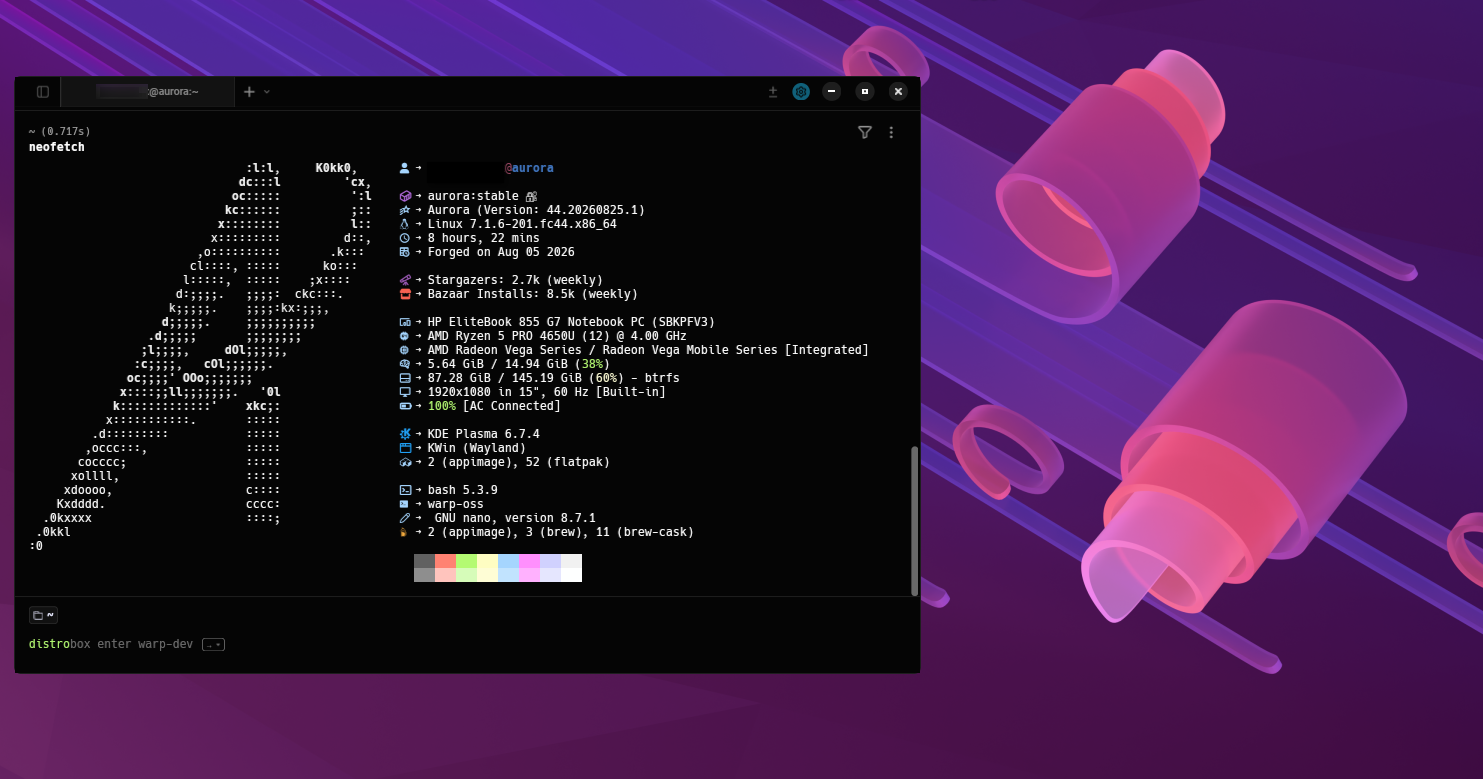
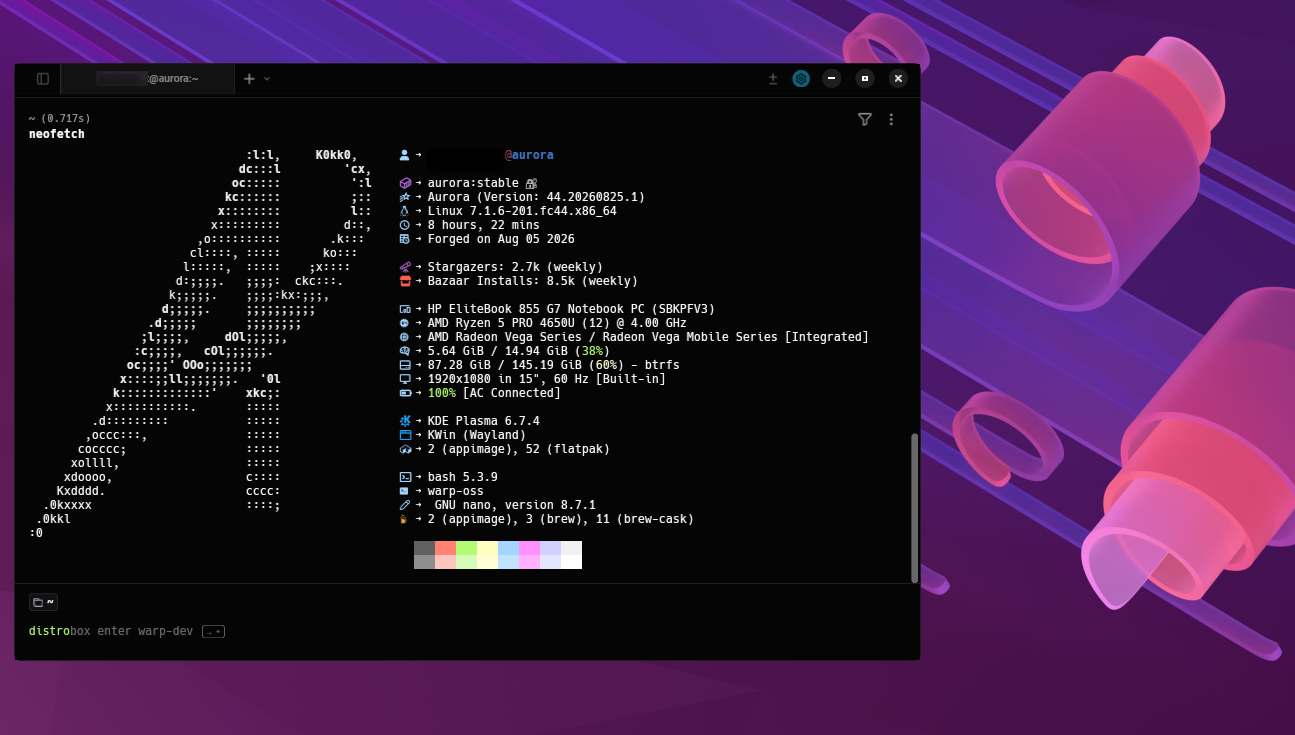
readme update

diff --git a/README.md b/README.md
@@ -5,7 +5,7 @@
 
 ## Kaden Terminal
 
-Kaden is a Terminal Emulator and fork of warp with proper clipboard support and fully configurable keybindings - designed to be bloat and telemetry free.
+Kaden is a Terminal Emulator and a fork of warp with proper clipboard support and fully configurable keybindings - designed to be bloat and telemetry free.
 
 ## Why Kaden?
 - Configure your own hotkeys with full clipboard support and smart copy / kill, no more using your mouse to select your code or awkward ctrl-shift-c to perform basic copy pasting.
